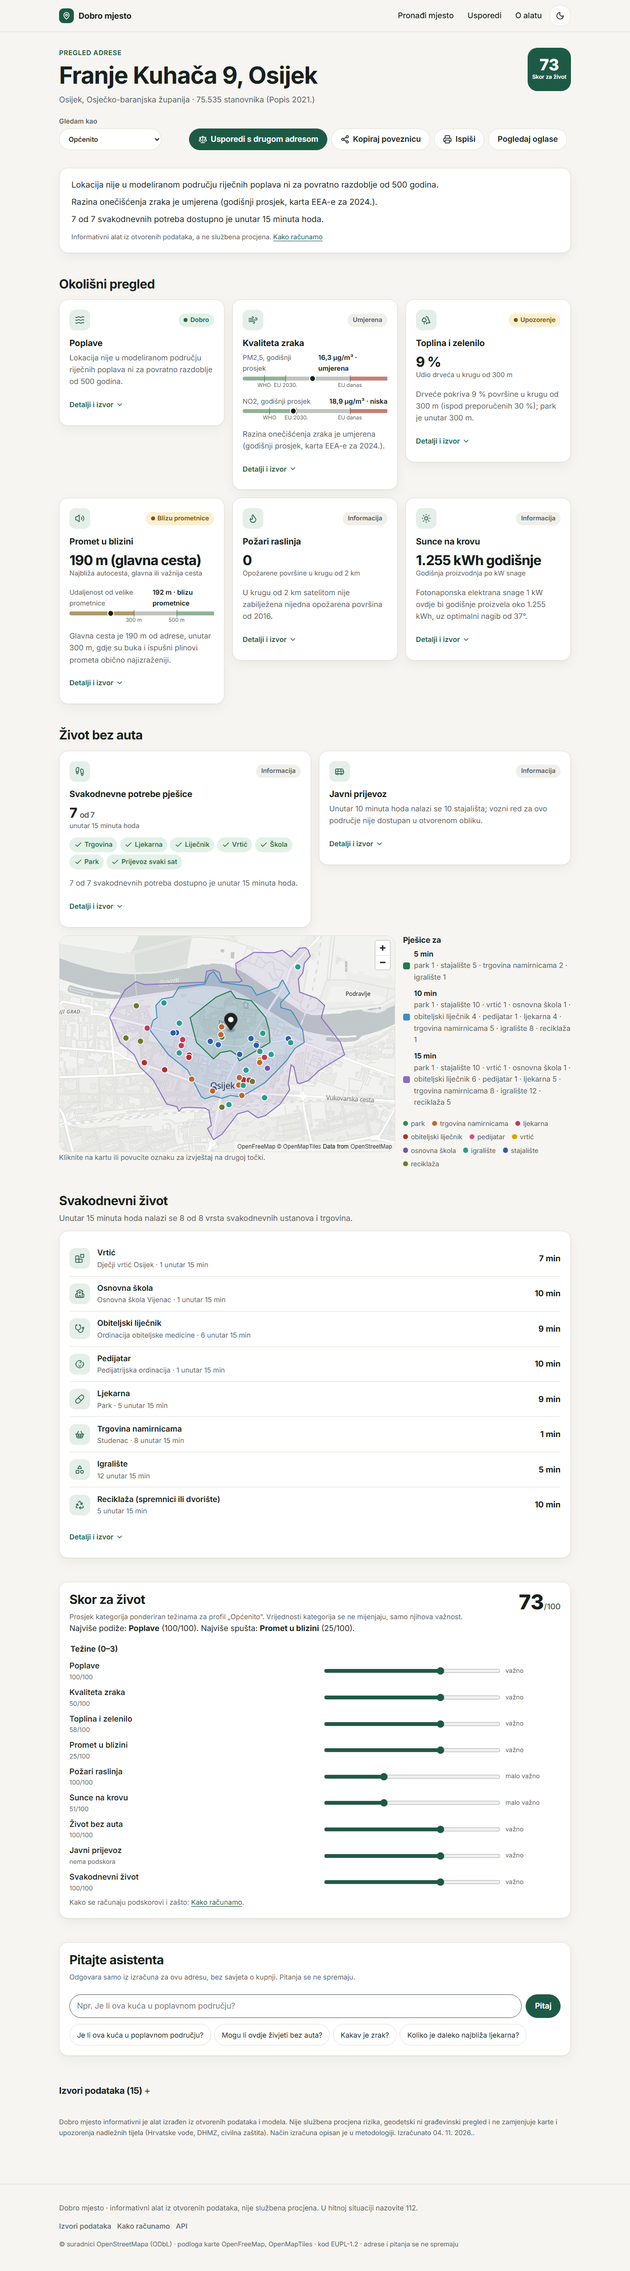
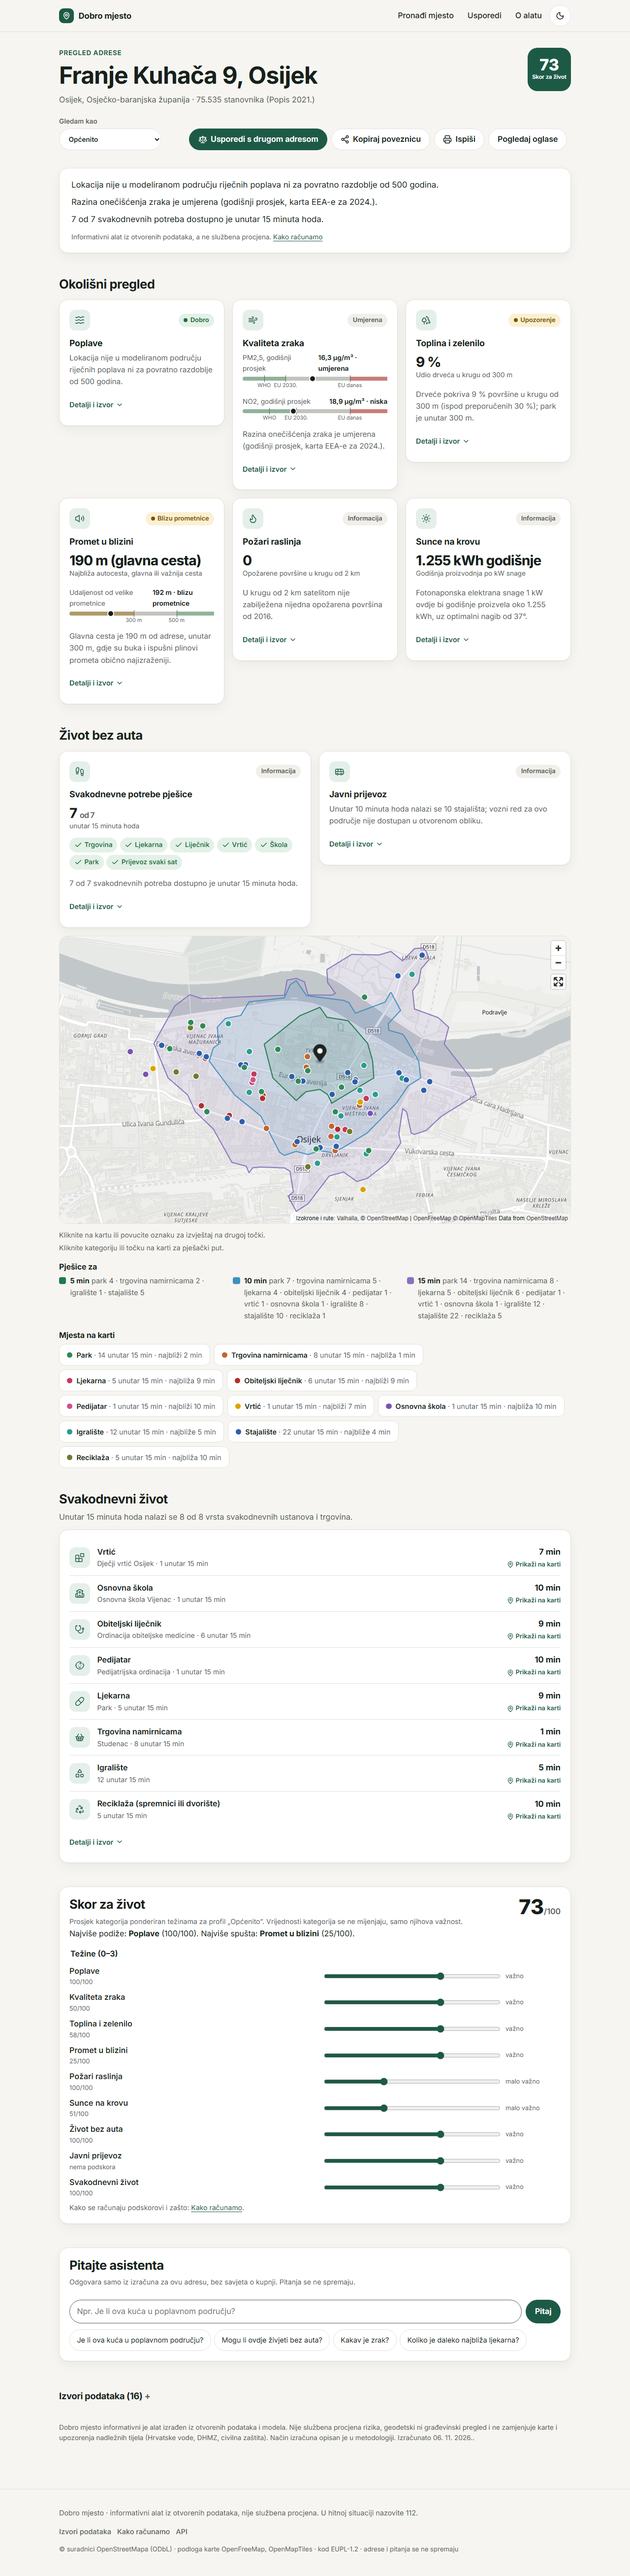
docs: report screenshots with the new map
izvjestaj.png and zivot-bez-auta.png from `make screenshots`. The
section shot keeps the sticky header out of the picture; before, the
header was drawn over the section (now it would cover the map).

diff --git a/frontend/tests/screenshots/screenshots.spec.ts b/frontend/tests/screenshots/screenshots.spec.ts
@@ -31,6 +31,8 @@ test('report desktop', async ({ page }) => {
   await page.screenshot({ path: `${OUT}/izvjestaj.png`, fullPage: true })
   await page.locator('.map-wrap').scrollIntoViewIfNeeded()
   await settle(page)
+  // The section is taller than the window: keep the sticky header out of the picture.
+  await page.addStyleTag({ content: '.site-header { position: static !important; }' })
   await page.locator('section[aria-labelledby="carfree-title"]').screenshot({
     path: `${OUT}/zivot-bez-auta.png`,
   })
